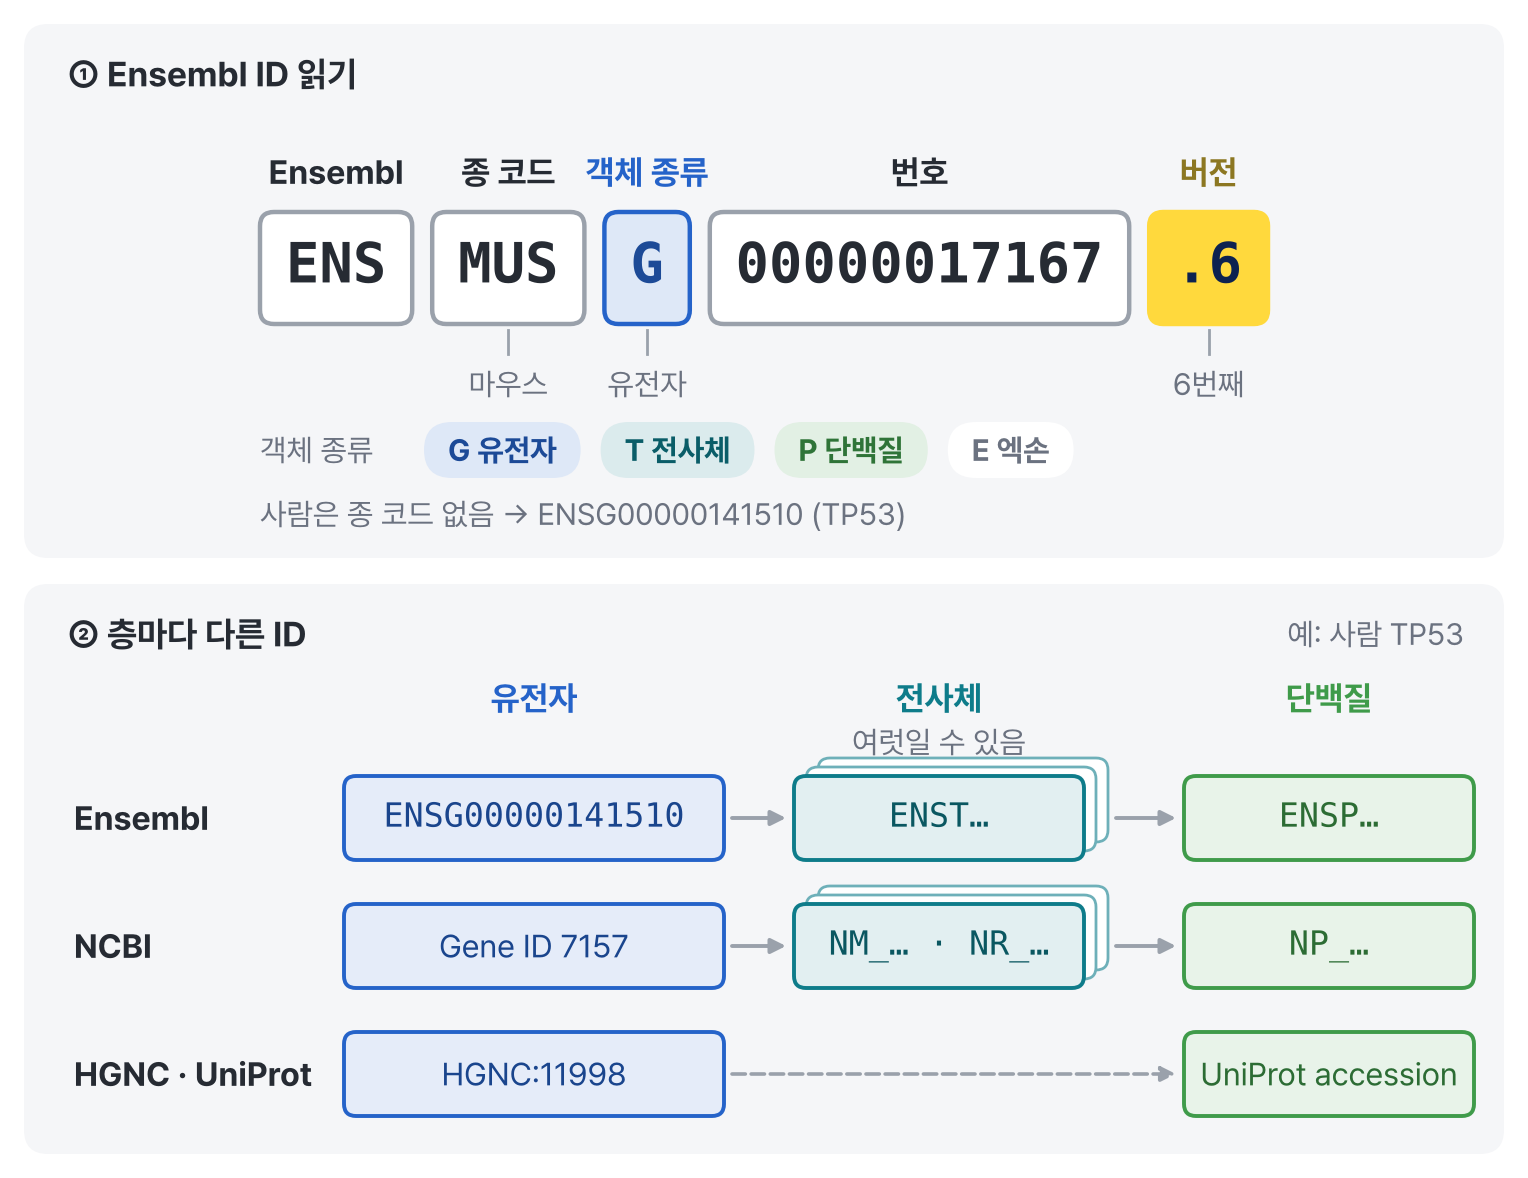
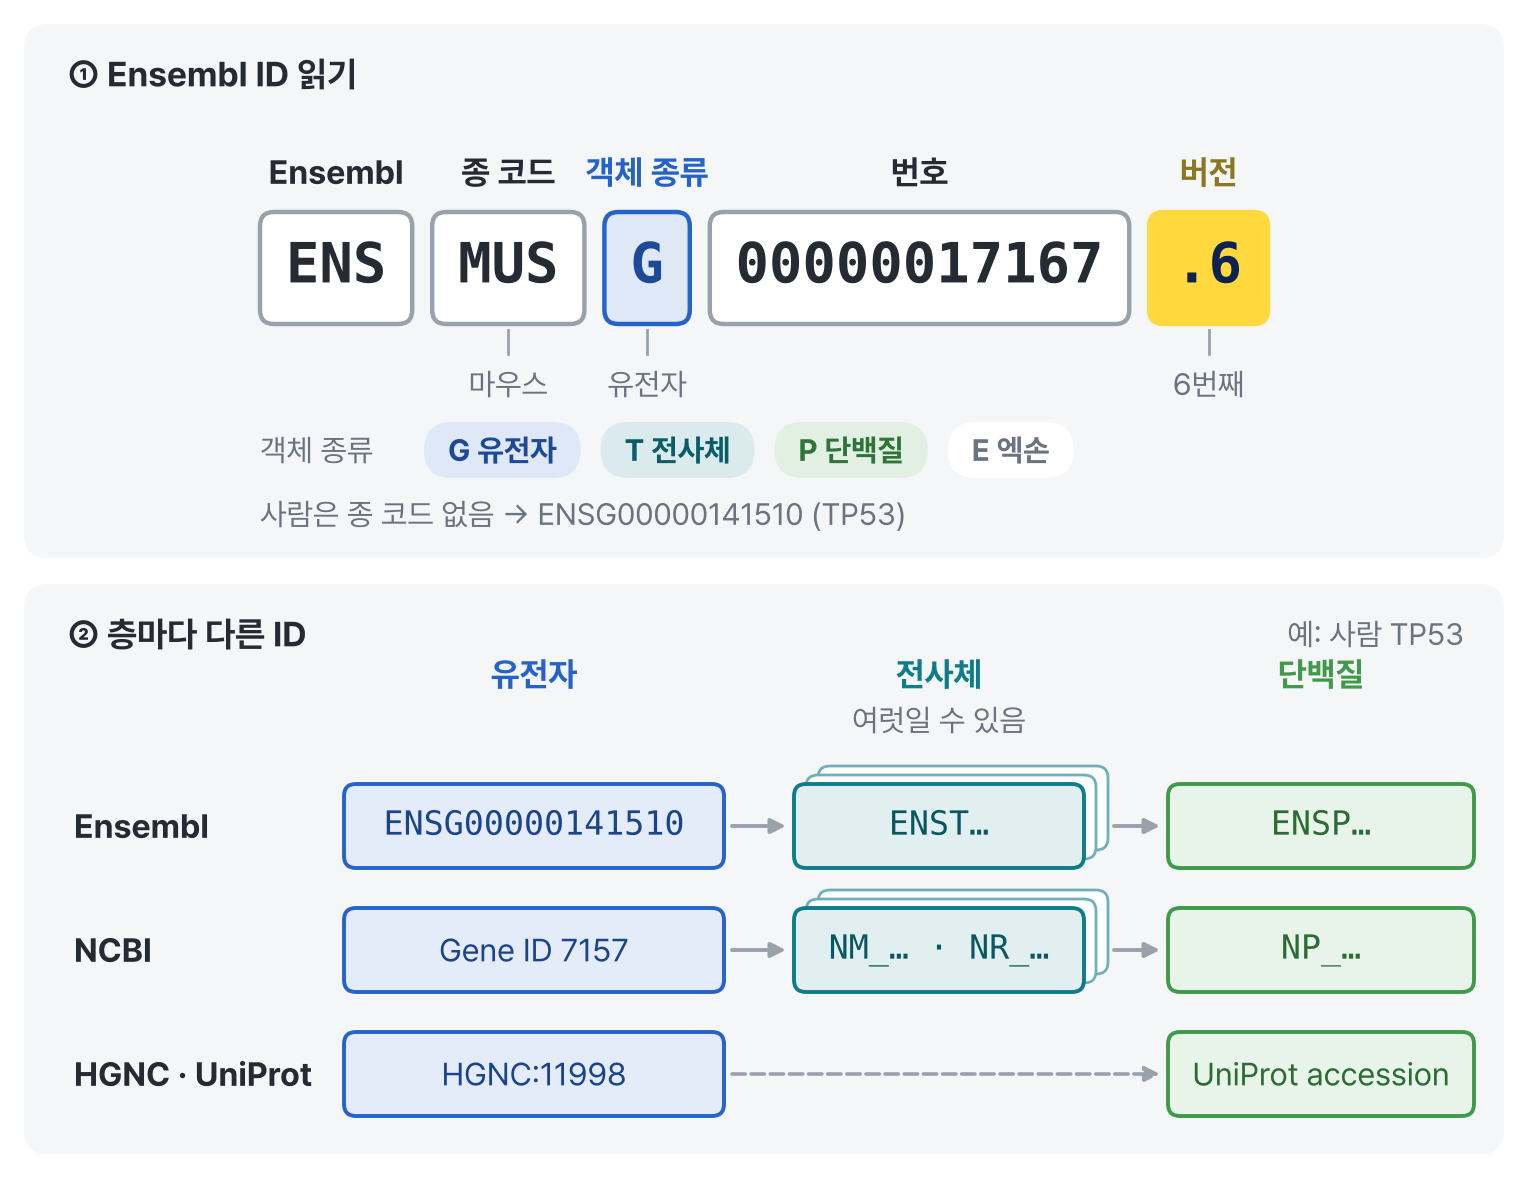
Figure redraws in progress (API workers)
Claude-Session: https://claude.ai/code/session_013CY8u712odqLWNgSqMvRhw

diff --git a/scripts/figs/A2_gene_ids.py b/scripts/figs/A2_gene_ids.py
@@ -55,14 +55,14 @@ label(ax, x_start, 3.3, "사람은 종 코드 없음 → ENSG00000141510 (TP53)"
 label(ax, 0.32, 2.7, "② 층마다 다른 ID", fs=12.5, w="bold", ha="left")
 label(ax, W - 0.3, 2.7, "예: 사람 TP53", fs=11, c=TEXT2, ha="right")
 
-cols = [(1.7, 1.9, "유전자", C_GENE), (3.95, 1.45, "전사체", C_TX), (5.9, 1.45, "단백질", C_PROT)]
+cols = [(1.7, 1.9, "유전자", C_GENE), (3.95, 1.45, "전사체", C_TX), (5.82, 1.53, "단백질", C_PROT)]
 for cx, cwid, name, c in cols:
-    label(ax, cx + cwid / 2, 2.38, name, fs=12, w="bold", c=c)
-label(ax, cols[1][0] + cols[1][1] / 2, 2.16, "여럿일 수 있음", fs=11, c=TEXT2)
+    label(ax, cx + cwid / 2, 2.5, name, fs=12, w="bold", c=c)
+label(ax, cols[1][0] + cols[1][1] / 2, 2.27, "여럿일 수 있음", fs=11, c=TEXT2)
 
 rows = [  # row label, y, gene cell, tx cell, protein cell (text, mono?)
-    ("Ensembl", 1.78, ("ENSG00000141510", True), ("ENST…", True), ("ENSP…", True)),
-    ("NCBI", 1.14, ("Gene ID 7157", False), ("NM_… · NR_…", True), ("NP_…", True)),
+    ("Ensembl", 1.74, ("ENSG00000141510", True), ("ENST…", True), ("ENSP…", True)),
+    ("NCBI", 1.12, ("Gene ID 7157", False), ("NM_… · NR_…", True), ("NP_…", True)),
     ("HGNC · UniProt", 0.5, ("HGNC:11998", False), None, ("UniProt accession", False)),
 ]
 ch = 0.42
@@ -86,7 +86,7 @@ for rl, yc, g, t, p in rows:
     if t:
         cell(tx, tw, yc, tc, t, stack=True)
         arrow(ax, gx + gw + 0.04, yc, tx - 0.04, yc, color=GREY, lw=1.4, ms=11)
-        arrow(ax, tx + tw + 0.16, yc, px - 0.04, yc, color=GREY, lw=1.4, ms=11)
+        arrow(ax, tx + tw + 0.15, yc, px - 0.04, yc, color=GREY, lw=1.4, ms=11)
     else:
         arrow(ax, gx + gw + 0.04, yc, px - 0.04, yc, color=GREY, lw=1.3, ms=11, ls="--")
 

diff --git a/scripts/figs/ch00_scale.py b/scripts/figs/ch00_scale.py
@@ -46,10 +46,10 @@ def above(x, L, name, size, c=TEXT):
     label(ax, x, L, size, fs=11, c=TEXT2)
     label(ax, x, L + 0.26, name, fs=12, w="bold", c=c)
 
-def below(x, L, name, size, c=TEXT):
+def below(x, L, name, size, c=TEXT, dx=0.0):
     ax.plot([x, x], [Y - 0.1, L + 0.14], **LEAD)
-    label(ax, x, L, name, fs=12, w="bold", c=c)
-    label(ax, x, L - 0.26, size, fs=11, c=TEXT2)
+    label(ax, x + dx, L, name, fs=12, w="bold", c=c)
+    label(ax, x + dx, L - 0.26, size, fs=11, c=TEXT2)
 
 # DNA 이중나선: 지름 약 2 nm
 x = point(2, BIO);            above(x, 2.30, "DNA 이중나선", "지름 약 2 nm")
@@ -57,8 +57,8 @@ x = point(2, BIO);            above(x, 2.30, "DNA 이중나선", "지름 약 2 n
 x = point(4, BIO);            below(x, 0.62, "단백질 하나", "약 4 nm")
 # 리보솜: 20–30 nm
 x = span(20, 30, BIO);        above(x, 1.78, "리보솜", "20–30 nm")
-# 미토콘드리아: 길이 1–2 µm (leader from the left part of the bar, clear of the "1 µm" tick label)
-span(1000, 2000, BIO);        below(xp(1180), 0.62, "미토콘드리아", "길이 1–2 µm")
+# 미토콘드리아: 길이 1–2 µm (leader clear of the "1 µm" tick label; text nudged left, away from 핵)
+span(1000, 2000, BIO);        below(xp(1180), 0.62, "미토콘드리아", "길이 1–2 µm", dx=-0.18)
 # 핵: 약 5 µm
 x = point(5000, BIO);         below(x, 0.62, "핵", "약 5 µm")
 # 림프구: 약 7 µm

diff --git a/scripts/figs/ch01_sc_vs_sn.py b/scripts/figs/ch01_sc_vs_sn.py
@@ -49,10 +49,10 @@ label(ax, 1.9, 4.74, "scRNA-seq · 세포 통째", fs=13, w="bold")
 ax.add_patch(mp.Ellipse((1.9, 3.42), 3.0, 1.9, fc="white", ec=STEPS[0], lw=1.6, zorder=2))
 nucleus(2.05, 3.4)
 for x1, x2, y in [(0.72, 1.02, 3.5), (0.8, 1.1, 3.0), (1.15, 1.45, 2.72),
-                  (2.75, 3.05, 3.85), (2.8, 3.1, 3.12), (2.05, 2.35, 2.6)]:
+                  (2.72, 3.02, 3.95), (2.55, 2.85, 2.82), (1.85, 2.15, 2.6)]:
     mrna(x1, x2, y)
 mito(1.15, 4.0, 20)
-mito(2.8, 2.82, -25)
+mito(3.0, 3.3, 15)
 box(ax, 0.28, 2.42, 3.24, 2.04, fc="none", ec=CAPT, lw=1.4, r=0.1, z=6, ls=(0, (4, 3)))
 label(ax, 3.44, 2.56, "잡는 범위", fs=11, w="bold", c=CAPT, ha="right")
 
